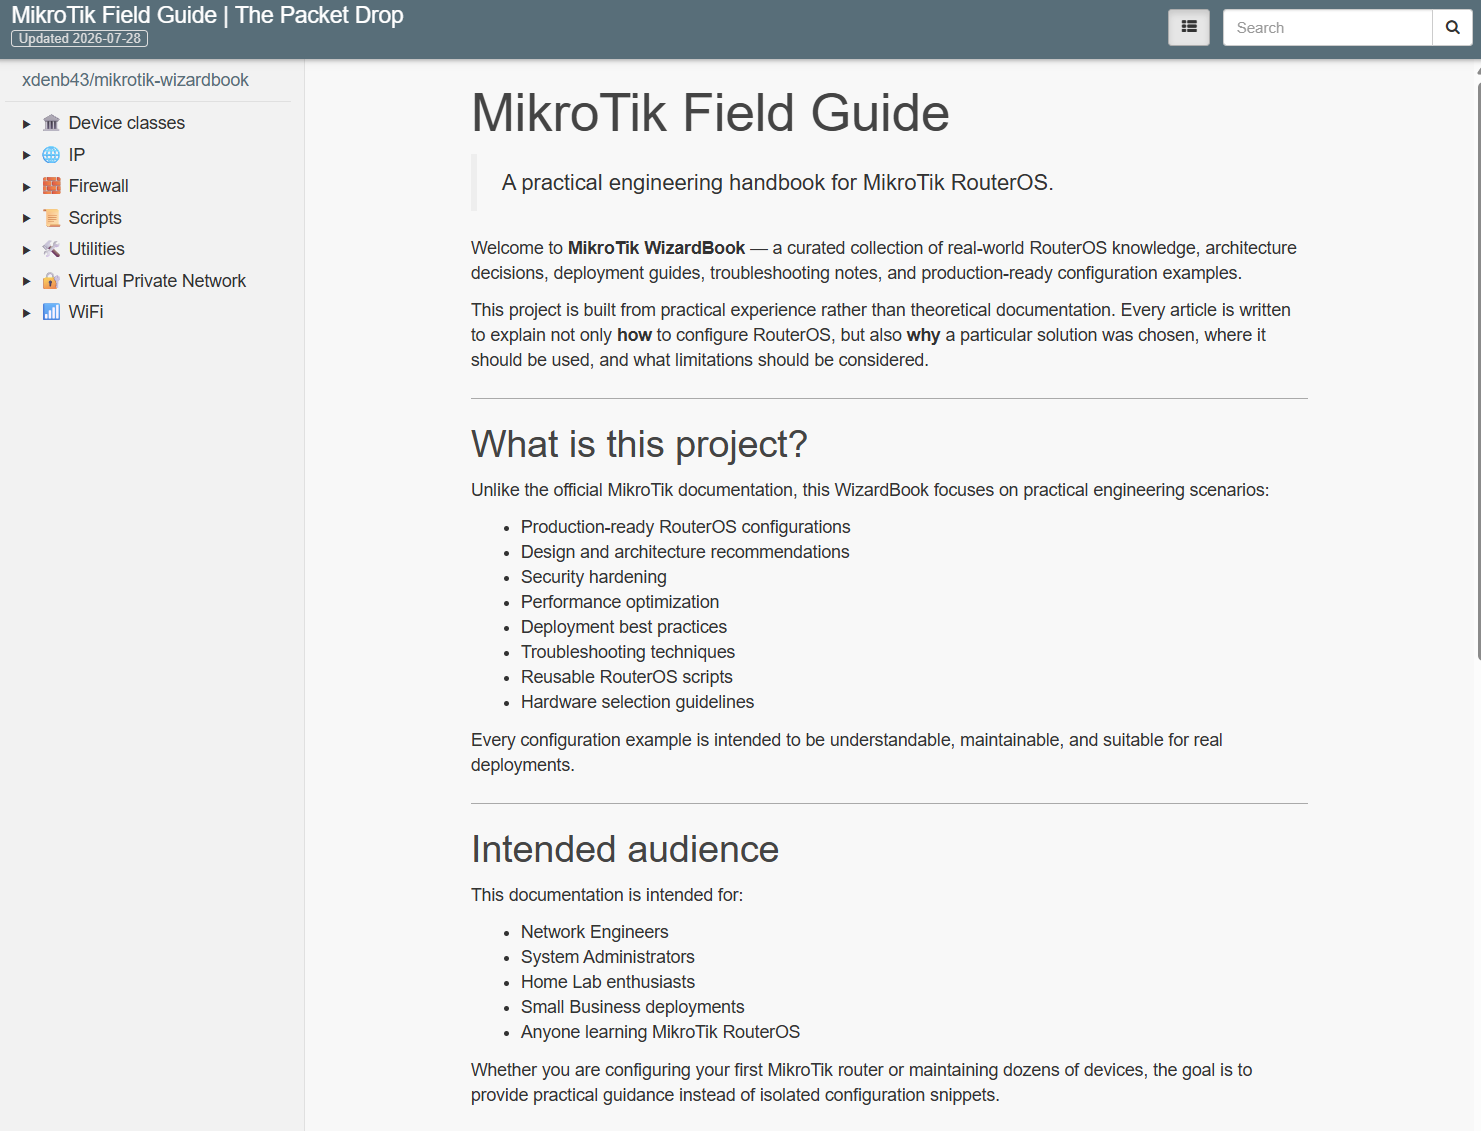
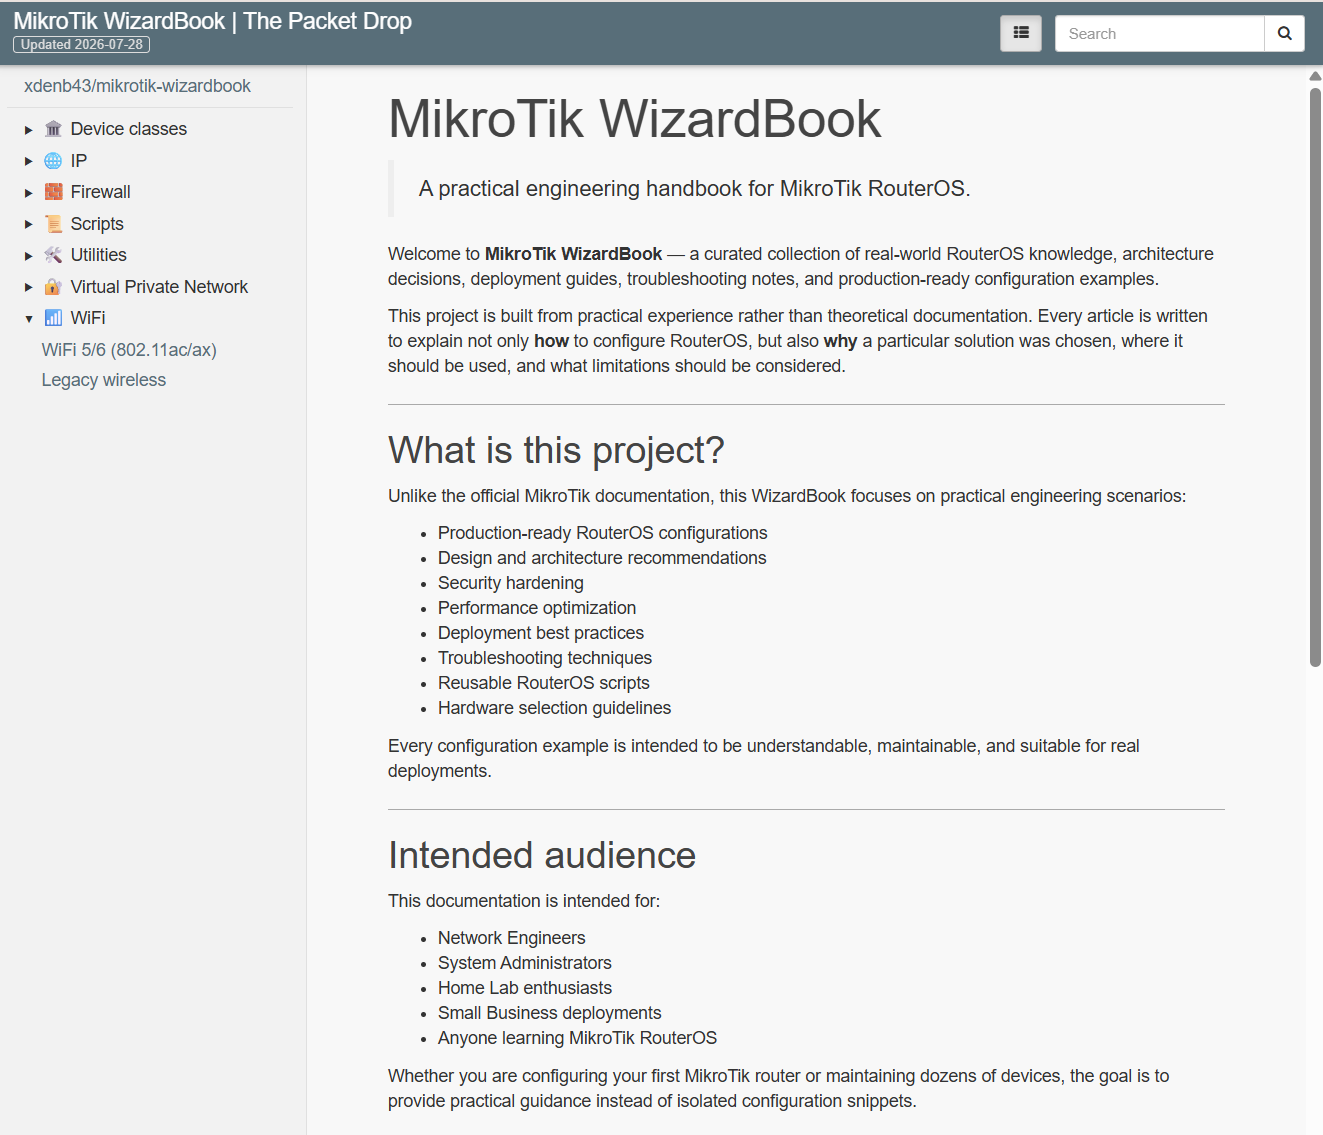
Fix sitename

diff --git a/docs/index.md b/docs/index.md
@@ -1,4 +1,4 @@
-# MikroTik Field Guide
+# MikroTik WizardBook
 
 > A practical engineering handbook for MikroTik RouterOS.
 
